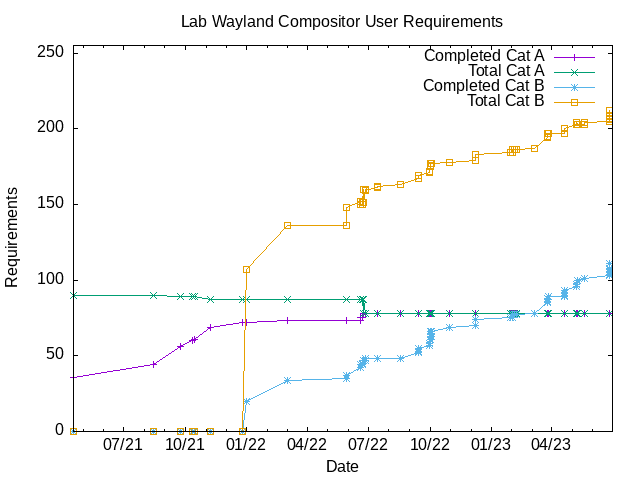
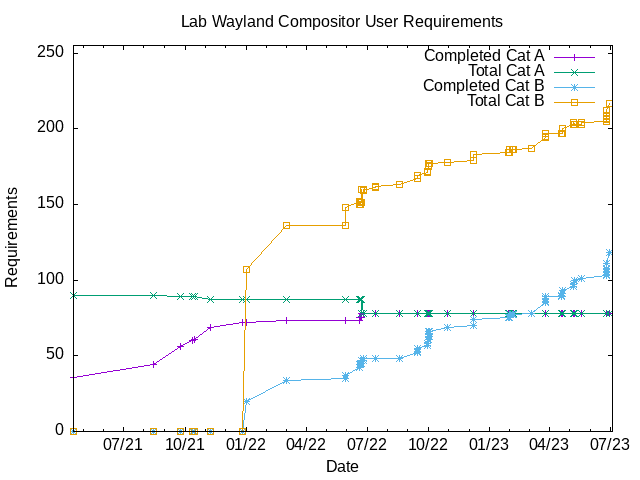
Add osd.window-switcher.{padding,item.active.border.width}

diff --git a/all-cat-A-and-B-items.md b/all-cat-A-and-B-items.md
@@ -235,6 +235,8 @@ This file has been auto-generated based on README.md. Do not edit it manually
 |  B  | complete | 6.1.19    | geometry                        | `osd.window-switcher.width`                             | EXTRA
 |  B  | complete | 6.1.20    | geometry                        | `osd.window-switcher.item.padding.x`                    | EXTRA
 |  B  | complete | 6.1.21    | geometry                        | `osd.window-switcher.item.padding.y`                    | EXTRA
+|  B  | complete | 6.1.21    | geometry                        | `osd.window-switcher.padding`                           | EXTRA
+|  B  | complete | 6.1.21    | geometry                        | `osd.window-switcher.item.active.border.width`          | EXTRA
 |  B  |          | 6.2.2     | border colors                   | `window.active.title.separator.color`                   |
 |  B  |          | 6.2.4     | border colors                   | `window.inactive.title.separator.color`                 |
 |  B  |          | 6.2.6     | border colors                   | `window.active.client.color`                            |

diff --git a/extra.md b/extra.md
@@ -38,4 +38,6 @@ This file has been auto-generated based on README.md. Do not edit it manually
 |  B  | complete | 6.1.19    | geometry                        | `osd.window-switcher.width`                             | EXTRA
 |  B  | complete | 6.1.20    | geometry                        | `osd.window-switcher.item.padding.x`                    | EXTRA
 |  B  | complete | 6.1.21    | geometry                        | `osd.window-switcher.item.padding.y`                    | EXTRA
+|  B  | complete | 6.1.21    | geometry                        | `osd.window-switcher.padding`                           | EXTRA
+|  B  | complete | 6.1.21    | geometry                        | `osd.window-switcher.item.active.border.width`          | EXTRA
 |  B  | complete | 8.3.1     | extra                           | Read menu.xbm if it exists                              | EXTRA

diff --git a/README.md b/README.md
@@ -550,6 +550,8 @@ The `<core>` section is additional to openbox 3.6 spec.
 |  B  | complete | 6.1.19    | geometry                        | `osd.window-switcher.width`                             | EXTRA
 |  B  | complete | 6.1.20    | geometry                        | `osd.window-switcher.item.padding.x`                    | EXTRA
 |  B  | complete | 6.1.21    | geometry                        | `osd.window-switcher.item.padding.y`                    | EXTRA
+|  B  | complete | 6.1.21    | geometry                        | `osd.window-switcher.padding`                           | EXTRA
+|  B  | complete | 6.1.21    | geometry                        | `osd.window-switcher.item.active.border.width`          | EXTRA
 
 ## 6.2 Theme - Border Colors
 

diff --git a/stats.md b/stats.md
@@ -3,6 +3,6 @@ This file has been auto-generated based on README.md. Do not edit it manually
 # Requirements Breakdown
 
 - Cat A:  78 / 78 complete
-- Cat B:  118 / 217 complete
+- Cat B:  120 / 219 complete
 - Cat C:  0 / 48 complete
-- TOTAL:  196 / 343 complete
+- TOTAL:  198 / 345 complete
